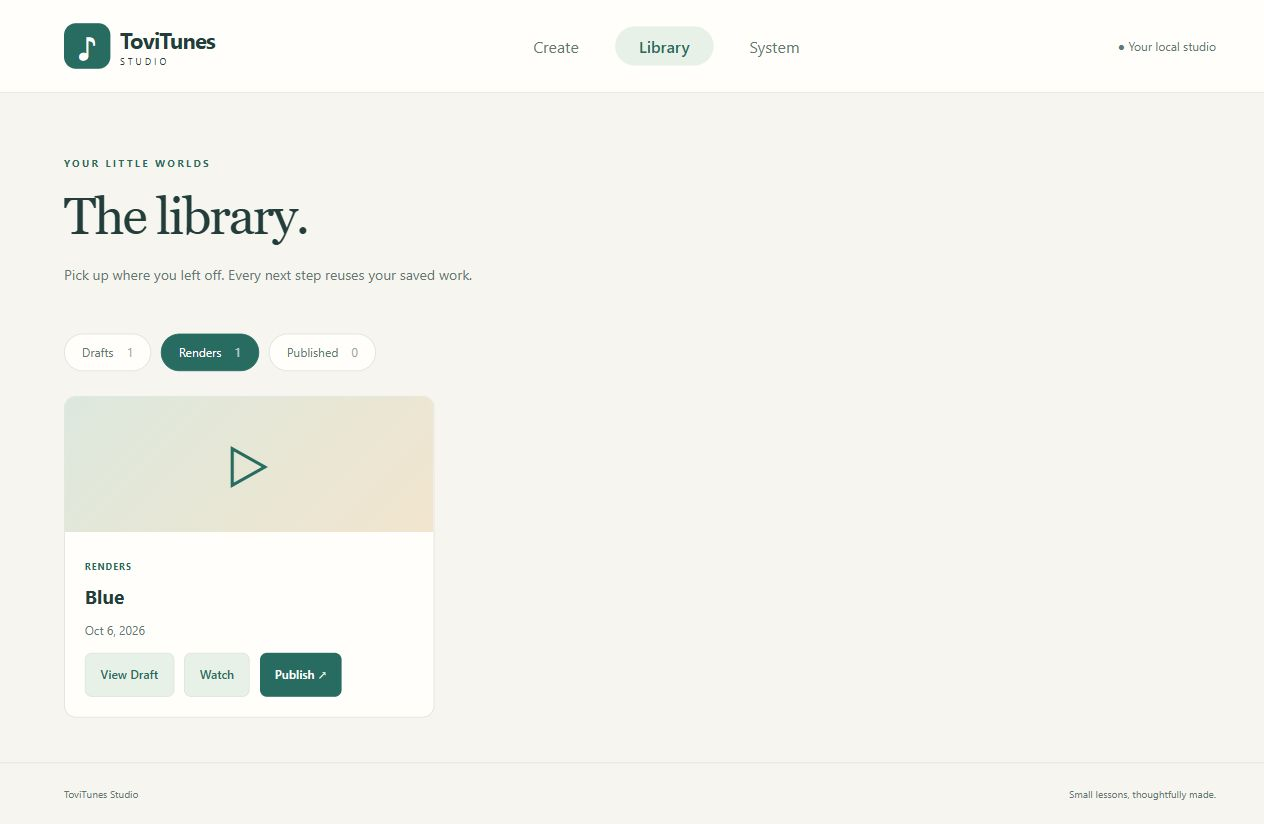
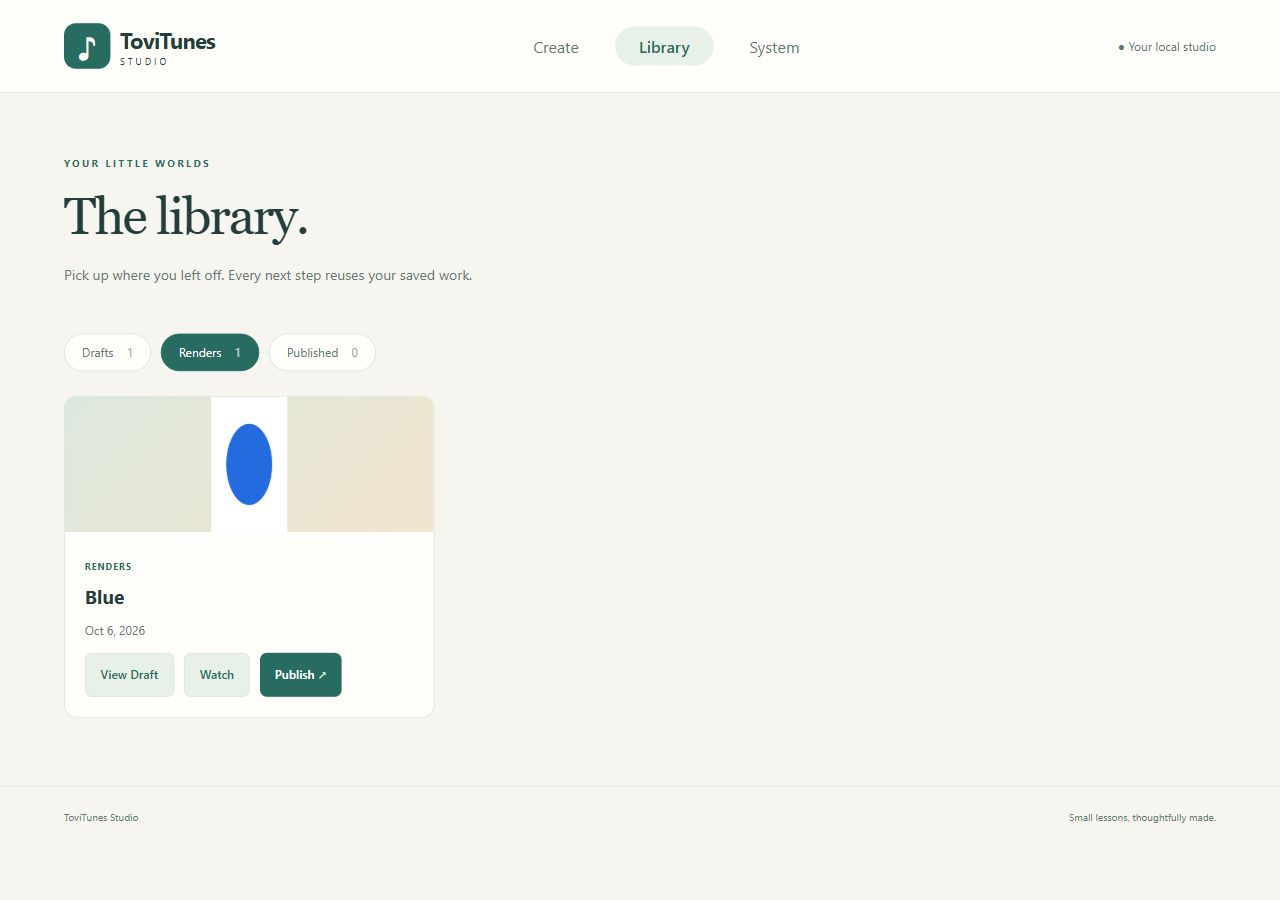
Refresh Studio screenshots for the final operator layout

diff --git a/docs/STUDIO_V1.md b/docs/STUDIO_V1.md
@@ -4,6 +4,8 @@ Double-click `start-ui.bat`, choose **Draft**, **Draft + Render**, or **Draft + 
 Publish**, and watch the production desk. Use **Library** to render an existing draft or
 publish a retained video. **System** contains technical health and local startup recovery.
 No run/request/artifact identifiers or provider choices are required in the creative flow.
+After a task exists, Create compacts the introduction and keeps the latest running, paused
+or completed task as the primary production card.
 
 ## Setup once, operate in the browser
 
